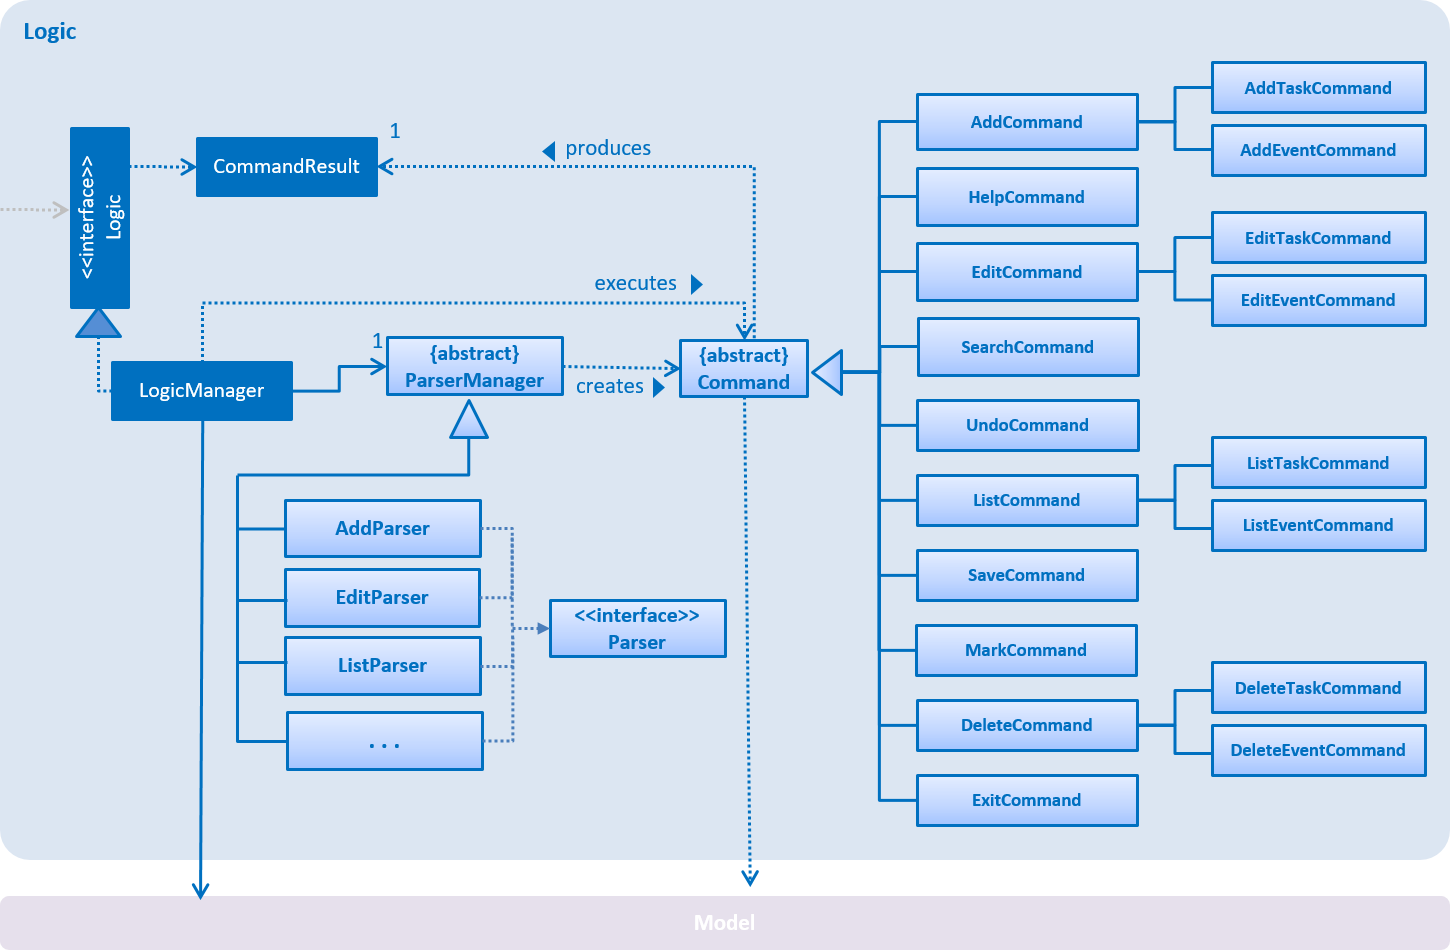
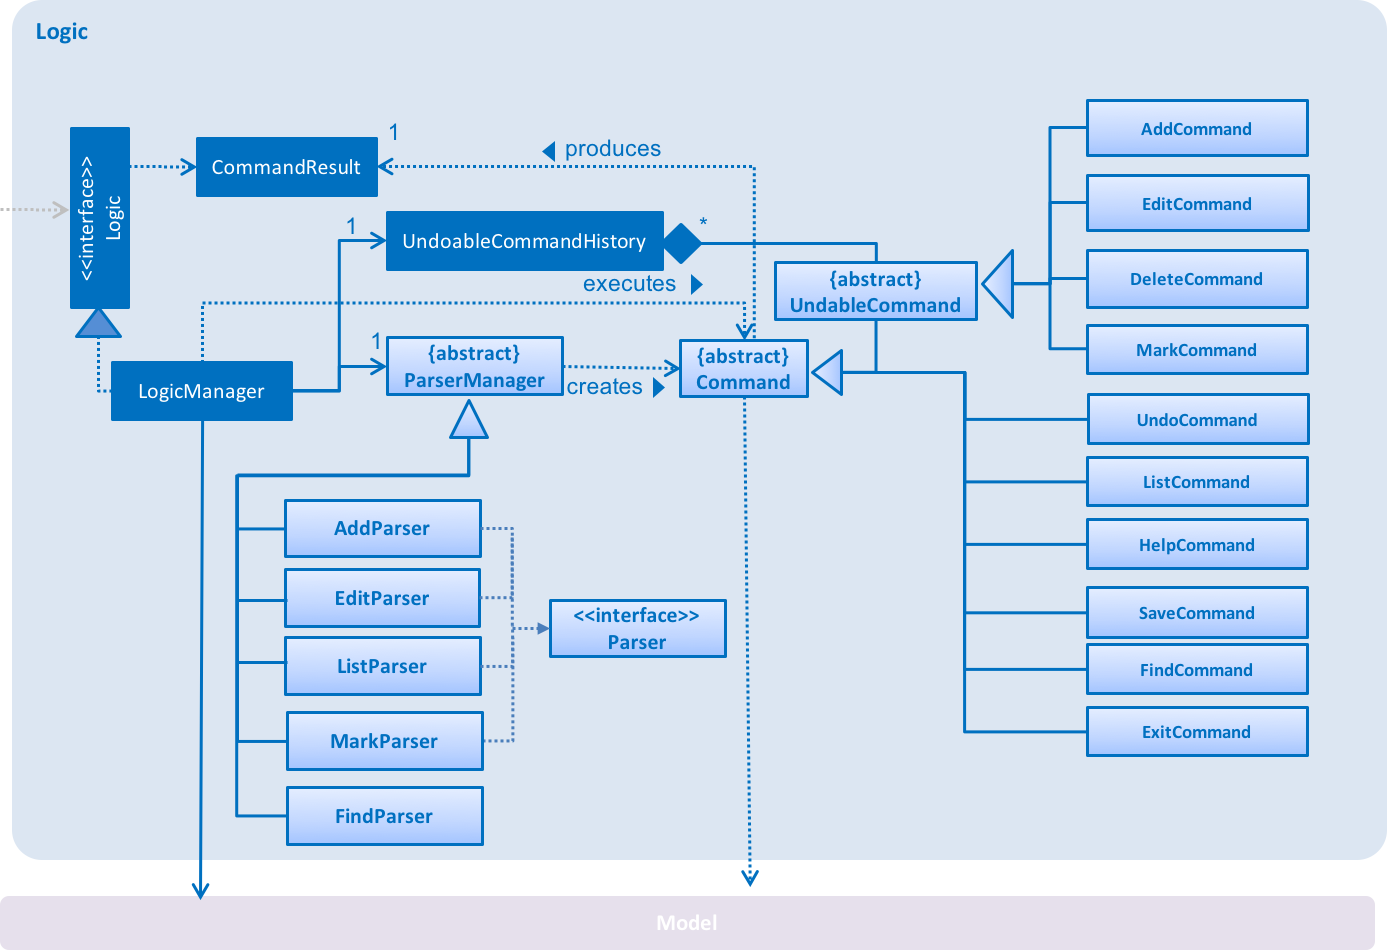
Update DeveloperGuide for list, find, undo

diff --git a/src/main/java/seedu/task/logic/parser/FindParser.java b/src/main/java/seedu/task/logic/parser/FindParser.java
@@ -12,7 +12,7 @@ import seedu.task.logic.commands.Command;
 import seedu.task.logic.commands.IncorrectCommand;
 import seedu.task.logic.commands.FindCommand;
 
-public class SearchParser implements Parser {
+public class FindParser implements Parser {
 	private static final Pattern KEYWORDS_ARGS_FORMAT =
             Pattern.compile("(?<keywords>\\S+(?:\\s+\\S+)*)"); // one or more keywords separated by whitespace
 

diff --git a/src/main/java/seedu/task/logic/parser/ParserManager.java b/src/main/java/seedu/task/logic/parser/ParserManager.java
@@ -61,7 +61,7 @@ public class ParserManager {
             return new ClearCommand();
 
         case FindCommand.COMMAND_WORD:
-            return new SearchParser().prepare(arguments);
+            return new FindParser().prepare(arguments);
 
         case ListCommand.COMMAND_WORD:
             return new ListParser().prepare(arguments);

diff --git a/docs/DeveloperGuide.md b/docs/DeveloperGuide.md
@@ -305,26 +305,24 @@ Use case ends.
     Use case resumes at step 1
 
 <br>
-#### Use case 3: List tasks
+#### Use case 3: List tasks/events
 
 **MSS**
 
-1. User requests to list tasks
-2. TaskBook shows a list of tasks
+1. User requests to list tasks/events
+2. TaskBook shows a list of tasks/events
 Use case ends.
 
-<br>
-#### Use case 4: List events
+The Use case can be elaborated by the SD as below in addition the SD mentioned in the [Design](#design):  
 
-**MSS**
+<img src="images/ListOverall.png" width="800"><br>
+<img src="images/ListRefSD.png" width="800"><br>
 
-1. User requests to list events
-2. TaskBook shows a list of events
-  Use case ends.
+The SD for list events is similiar to task. 
 
 <br>
 
-#### Use case 5: Edit task details
+#### Use case 4: Edit task details
 
 **MSS**
 1. User requests to list tasks
@@ -423,18 +421,22 @@ Use case ends.
 
 <br>
 
-#### Use case 10: Simple search for tasks  
+#### Use case 10: Simple find for tasks  
 
 **MSS**
-1. User request to search for tasks containing a set of keywords in description
-2. TaskBook displays zero or more tasks matching the search criteria
+1. User request to find for tasks containing a set of keywords in description
+2. TaskBook displays zero or more tasks matching the find criteria
 
   Use case ends.
 
 **Extensions**
 1a. No keywords entered after command word
-  > 1a1. Taskbook displays help message on the search command
-  Use case resumes at step 1
+  > 1a1. Taskbook displays help message on the find command
+  Use case resumes at step 1  
+
+
+<img src="images/FindOverall.png" width="800"><br>
+<img src="images/FindRefSD.png" width="800"><br>
 
 <br>
 
@@ -453,7 +455,12 @@ Extensions
   > 1a1. Taskbook displays displays a message indicating no commands can be undone
   Use case ends
 
-{More to be added}
+Besides the abstract SD as shown in the section [Design](#design). A more detailed Sequence Diagram of undo a deletion of task is shown below:
+
+<img src="images/UndoOverall.png" width="800"><br>
+<img src="images/UndoRefSD.png" width="800"><br>
+
+
 
 ## Appendix C : Non Functional Requirements
 - Storage
